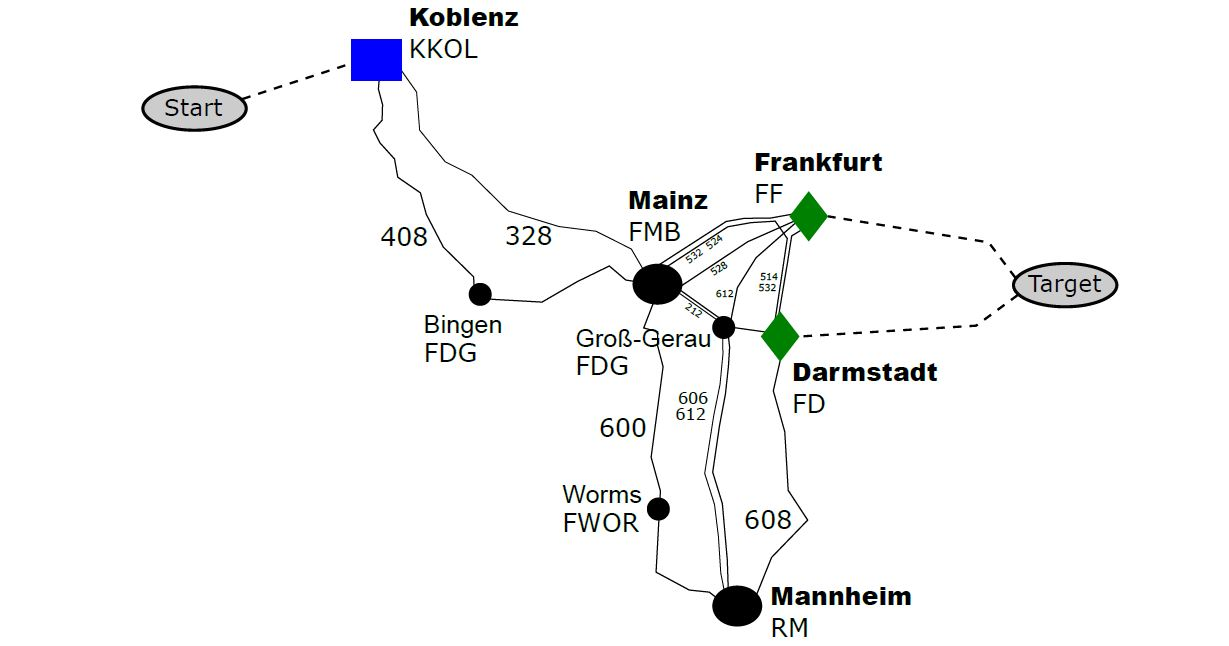
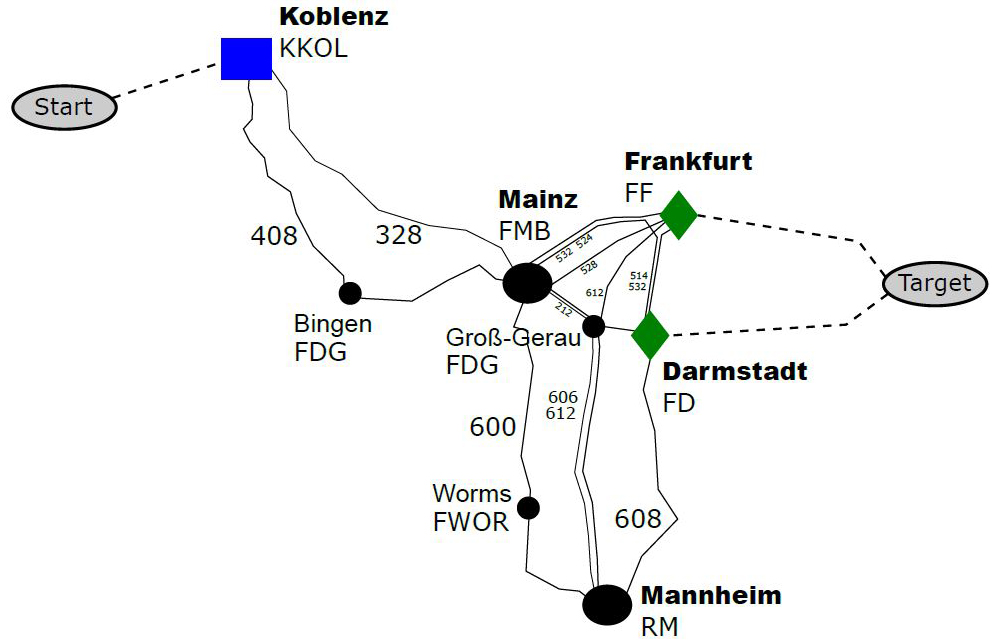
Correct typos, add train path image

diff --git a/TeX/modelling.tex b/TeX/modelling.tex
@@ -1,7 +1,7 @@
 \section{Train Path Planning and Train Path Assignment}
 \label{chap:methods}
 %
-In this section we briefly describe our modelling approach to automatically create timetables. It is divided into two main parts: First, we precalculate slots, which are located on the most frequently used part of the infrastructure (Section~\ref{chap:Konstruktion}). Therefore, we extend the idea of \cite{O:2009}. The second part is the train path assignment (Section~\ref{chap:Belegung}), based on the idea of \cite{N:1998, N:2015} and \cite{NO:2014}, where some single train paths are assigned to a complete timetable.
+In this section we briefly describe our modelling approach to automatically create timetables. It is divided into two main parts: First, we precalculate slots, which are located on the most frequently used parts of the infrastructure (Section~\ref{chap:Konstruktion}). Therefore, we extend the idea of \cite{O:2009}. The second part is the train path assignment (Section~\ref{chap:Belegung}), based on the idea of \cite{N:1998, N:2015} and \cite{NO:2014}, where some single train paths are assigned to a complete timetable.
 
 
 \subsection{Train Path Calculation}
@@ -13,9 +13,9 @@ This section will give a brief overview of the process used for creating a train
 \subsubsection{Routing}
 To reduce the problem size, our first step consists of finding routes that could be relevant for the train. We use an A* algorithm for finding a shortest route on our infrastructure, which is a digital representation of the German railway network. The algorithm utilizes geo coordinates for calculating the beeline distance between Betriebstellen as the lower bound.
 For each Betriebstelle we keep a list of all possible ways to traverse it. Each possibility is termed a \emph{Fahrweg}. The Fahrwege form a graph where each Fahrweg is a vertex, with directed edges indicating which Fahrweg is a direct successor of another. The edge costs are based on the Fahrwege lengths.
-But as certain Fahrwege are preferred to others we multiply the cost with factor which is closer to one for more desirable Fahrwege. This way the use of intersections and the use of tracks from the opposite direction can be discouraged. It is this graph we use for finding routes for our train paths.
+As certain Fahrwege are preferred to others, we multiply the costs with factor greater or equal to one, with larger factors for less desirable Fahrwege. This way the use of intersections and the use of tracks designated for the opposite direction can be discouraged. It is this graph we use for finding routes for our train paths.
 
-While exploring the graph the algorithm filters out all paths, which are incompatible with the characteristics of the train. For example the train might exceed maximum mass or width of the Fahrweg or might require an electrified track.
+While exploring the graph the algorithm filters out all paths which are incompatible with the characteristics of the train. For example the train might exceed maximum mass or width of the Fahrweg or might require an electrified track.
 As it is not always the best option to use the shortest path, we create multiple alternative routes. For searching the subsequent routes, we increase the costs of edges that where used in already found routes. A route is only accepted as a real alternative if it differs from all already calculated ones in at least one Betriebstelle. We set an upper limit to the length of alternative routes which is a multiple ($1.3$ in the experiments) of the shortest route found.
 
 
@@ -30,7 +30,7 @@ This way we get a directed, acyclic graph of snippets representing the possible 
 %
 The last step to calculate the train path is to determine a starting time and a path through the snippet graph such that no blocking time is in conflict with another train path and the number of stops is minimized. For each snippet we can calculate the possible departure times of the snippet that are not conflicting with other trains by projecting the blocking times of other trains back to the snippets start. This way we get a list of intervals for each snippet where each interval represents the allowed start times. Next we reduce the intervals further to ensure that only such intervals remain that can be reached by one of the snippets predecessors. For each snippet we calculate the possible arrival times given the known departure intervals. Note that for a snippet not ending in a stop, the resulting intervals will have the same length but are shifted by the travel time of the snippet. For stopping snippets the intervals can increase in size as long as the stop is not used by a different train. For each snippet we take the union of all its predecessors arrival intervals and intersect them with the possible departures of the snippet. This yields the new departure times of the snippet. As the snippet graph is directed and acyclic, we can find a topological ordering of the snippets such that this reduction of departure times needs to be done only once per snippet.
 
-The possible arrival times of the sink snippets will now be such that there must exist a non conflicting valid train path arriving at the given time. We calculate train paths by choosing the earliest arrival time. For a given arrival time we can select the predecessor snippets that have a compatible departure time. From them we select those that lead to the least number of stops (we prefer non stopping predecessors) first and then to the latest departure. The resulting train path is guaranteed to be conflict free, while keeping the number of stops and travel time low. The algorithm runs sufficiently fast, requiring $\mathcal{O}(m+n)$ calculations where $m$ is the number of snippets and $n$ is the number of edges in the snippet graph. Note that the maximum number of intervals per snippet is bounded by constant, the number of seconds per day.
+The possible arrival times of the sink snippets will now be such that there must exist a non conflicting valid train path arriving at the given time. We calculate train paths by choosing the earliest arrival time. For a given arrival time we can select the predecessor snippets that have a compatible departure time. From them we select those that lead to the least number of stops (we prefer non stopping predecessors) first and then to the latest departure. The resulting train path is guaranteed to be conflict free, while keeping the number of stops and travel time low. The algorithm runs sufficiently fast, requiring $\mathcal{O}(m+n)$ calculations where $m$ is the number of snippets and $n$ is the number of edges in the snippet graph. Note that the maximum number of intervals per snippet is bounded by a constant, the number of seconds per day.
 
 %
 \begin{figure}[tb]
@@ -40,7 +40,7 @@ The possible arrival times of the sink snippets will now be such that there must
 	% Else if you include an EPS file
 	%    (it may need an interpreter for the PostScript language, e.g. Ghostscript),
 	%\includegraphics[scale=0.30]{Fig1_Track.eps}
-	\caption{Right: A macroscopic map of the infrastructure administrated by DB Netze, on which slots are created. The time dependency is neglected for a better overview. Left: Zoom into the German part of the Rhine-Apline Corridor.}
+	\caption{Right: a macroscopic map of the infrastructure administrated by DB Netze, on which slots are created. The time dependency is neglected for a better overview. Left: Zoom into the German part of the Rhine-Apline Corridor.}
 	\label{fig:STAKarte}
 \end{figure}
 
@@ -57,11 +57,12 @@ As most customer requests do not start or end at vertices of the graph \G\, (com
 \begin{figure}[tb]
 	\centering
 	% If you include a JPG file,
-	\includegraphics[scale=0.30]{Bilder/Kor1_EA_Farbe.jpg}
-	% Else if you include an EPS file
-	%    (it may need an interpreter for the PostScript language, e.g. Ghostscript),
-	%\includegraphics[scale=0.30]{Fig1_Track.eps}
-	\caption{A small section of Figure~\ref{fig:STAKarte}. The customer request starts at \emph{start} and ends in \emph{target}. The break-in and break-out points are marked as blue box ($\Box$) and green diamond ($\Diamond$), respectively. The time dependency is neglected for a better overview.}
+	\includegraphics[width=0.48\textwidth]{Bilder/trainPath.png}
+	~
+	\includegraphics[width=0.48\textwidth]{Bilder/Kor1_EA_Farbe.jpg}
+
+	\caption{Left: parts of multiple train paths shown as blocking times.
+	Right: a small section of Figure~\ref{fig:STAKarte}. The customer request starts at \emph{start} and ends in \emph{target}. The break-in and break-out points are marked as blue box ($\Box$) and green diamond ($\Diamond$), respectively. The time dependency is neglected for a better overview.}
 	\label{fig:E-A-Pkte}
 \end{figure}
 

diff --git a/TeX/introduction.tex b/TeX/introduction.tex
@@ -1,10 +1,10 @@
 \section{Introduction}
 \label{chap:intro}
 %
-The usual process of creating a timetable, especially for freight trains, is a manual \emph{make-to-order} process. But as \cite{FP:2014} already pointed out: It is necessary to overcome the manual process to be able to find global optimal solutions in an industrialized creation of timetables as the amount of data to be processed is steadily increasing. Additionally, in order to improve the efficiency of the process of creating a timetable as well as making better use of the available infrastructure it is convenient to transform the process to an \emph{assemble-to-order} process.
+The usual process of creating a timetable, especially for freight trains, is a manual \emph{make-to-order} process. But as \cite{FP:2014} already pointed out: It is necessary to overcome the manual process to be able to find global optimal solutions in an industrialized creation of timetables as the amount of data to be processed is steadily increasing. Additionally, in order to improve the efficiency of the process of creating a timetable as well as making better use of the available infrastructure it is convenient to transform the procedure to an \emph{assemble-to-order} process.
 
 This transformation as well as different approaches for an automatic creation of rail freight timetables have been widely discussed in the literature. Planning of slots was first introduced for cyclic timetables using a periodic event scheduling problem (PESP) by \cite{N:1998} and extended by \cite{O:2009}. \cite{G:2012} showed that the PESP can also be encoded as a SAT problem which leads to significantly lower computation times. For non cyclic timetables, \cite{G:2013} proved that a mixed integer formulation works for practical problem sizes. The train path assignment problem as the second step after planning of slots was introduced by \cite{NO:2014} and extended for optimization with different traffic days by \cite{N:2015}.
 
-In this paper, we show how the academic models mentioned above can be transformed into an application in real world optimization with an innovation that is threefold: First, we are able to generate more capacity of infrastructure without actually building it but by making better use of it. Second, we are able to reduce the travel time for most of the scheduled trains by simultaneously considering all requests and using global optimization instead of manual, local optimization. Third, we reduce response times by implementing the first fully automated process in short-term capacity planing from ordering to the actual departure of the train. All resulting in better customer value.
+In this paper, we show how the academic models mentioned above can be transformed into an application in real world optimization with an innovation that is threefold: First, we are able to generate more capacity without actually building additional infrastructure but by making better use of it. Second, we are able to reduce the travel time for most of the scheduled trains by simultaneously considering all requests and using global optimization instead of manual, local optimization. Third, we reduce response times by implementing the first fully automated process in short-term capacity planing from ordering to the actual departure of the train. All resulting in better customer value.
 
 The organization of the paper is as follows. First, we describe the modelling approach in Section~\ref{chap:methods}. After that, we discuss the use cases and the data used in our numerical experiments alongside the results in Section~\ref{chap:useCases}. We close with an outlook (Section~\ref{chap:outlook}) to possible extensions of our approach in the future.
